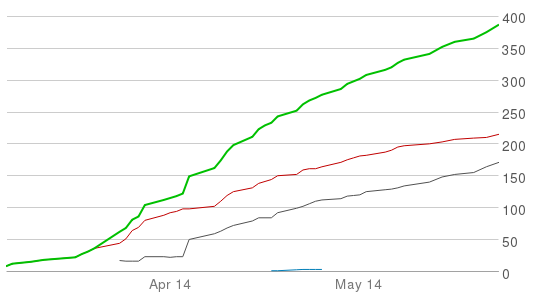
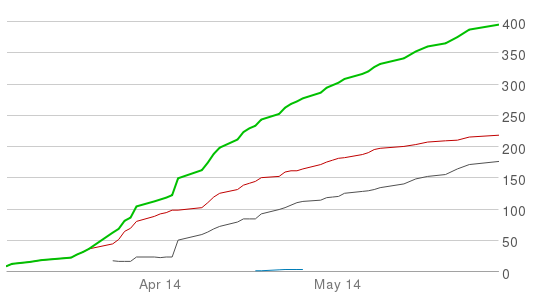
Update 2014-05-28 https://twitter.com/CPHOEP/status/471732544757456896

diff --git a/index.html b/index.html
@@ -113,7 +113,7 @@
 		</script>
 		
 		<p>The first case of mumps detected in Franklin County was January 7, with the first case at OSU detected February 10.</p>
-		<p>At Ohio State University, the virus has affected 141 students, 28 staff members, three family members, and 44 with strong ties to the university community, with 84.8 percent of affected OSU-affiliated persons living in Columbus. Patients include 240 females and 148 males in central Ohio, from four months to 80 years of age. Cases include residents in Columbus and Athens, Belmont, Cincinnati, Clark, Delaware, Fairfield, Franklin, Hamilton, Indiana, Licking, Madison, Pickaway, Ross and Warren counties.<sup><a href="http://columbus.gov/Templates/Detail.aspx?id=69188">1</a></sup></p>
+		<p>At Ohio State University, the virus has affected 143 students, 28 staff members, three family members, and 45 with strong ties to the university community, with 84.8 percent of affected OSU-affiliated persons living in Columbus. Patients include 245 females and 151 males in central Ohio, from four months to 80 years of age. Cases include residents in Columbus and Athens, Belmont, Cincinnati, Clark, Delaware, Fairfield, Franklin, Hamilton, Indiana, Licking, Madison, Pickaway, Ross and Warren counties.<sup><a href="http://columbus.gov/Templates/Detail.aspx?id=69188">1</a></sup></p>
 		<p>Three to four cases have been reported at Columbus State Community College.<sup><a href="http://www.nbc4i.com/story/25300367/mumps-outbreak-grows-to-253-cases">2</a></sup> Cases have been reported in six<sup><a href="http://www.nbc4i.com/story/25322507/mumps-outbreak-grows-to-269-cases">3</a></sup> Olentangy Local Schools, leading school officials to tell students without the vaccine and with compromised immune systems to stay home.<sup><a href="http://www.dispatch.com/content/stories/local/2014/04/18/olentangy-students-without-mumps-vaccine-must-stay-home-for-25-days.html">4</a></sup> One member of the Ohio House staff has been diagnosed with mumps.<sup><a href="http://dispatchpolitics.dispatch.com/content/blogs/the-daily-briefing/2014/05/05-05-14-house-mumps.html">5</a></sup> One case each has been diagnosed at J.W. Reason Elementary, Brown Elementary and Hilliard Bradley High School in Hilliard.<sup><a href="http://www.dispatch.com/content/stories/local/2014/05/12/Hilliard-schools-warns-parents-about-mumps-cases.html">6</a></sup></p> 
 		<p>Local patients have had the following complications:</p>
 		<p><ul>
